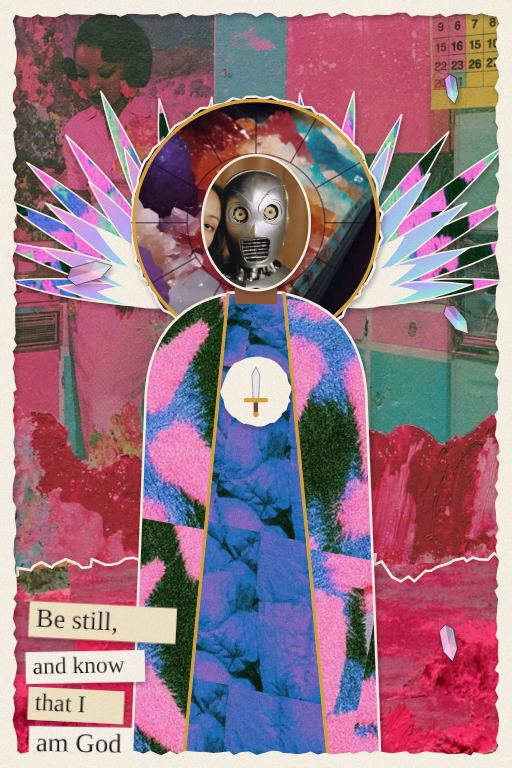
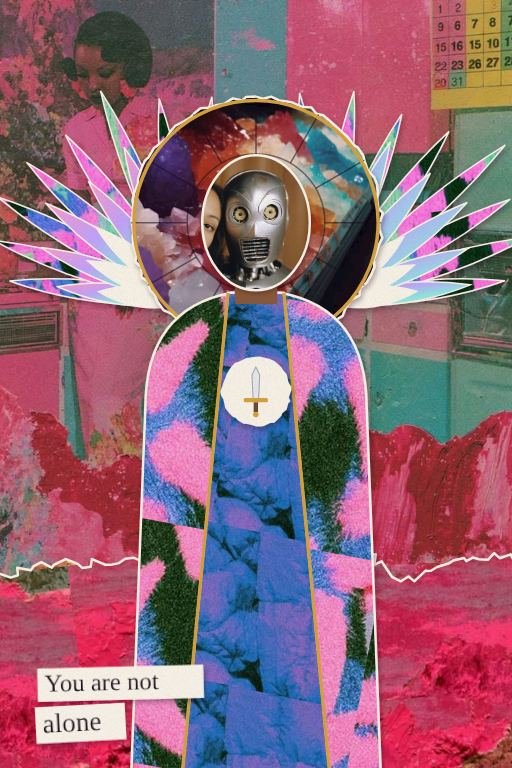
No floating crystals; every collage gets cut-out words (whole sentences, max 3 strips, always in frame)
Claude-Session: https://claude.ai/code/session_01ApSqnhGPoZyWtH2m5PK85X

diff --git a/server/art/procedural.js b/server/art/procedural.js
@@ -230,18 +230,18 @@ function wordStrips(words, x, y, r, maxW) {
   }
   return o;
 }
-export function wordsFrom(text = "", max = 6) {
-  // a complete short phrase: the shortest sentence, or the closing words of a long one
+export function wordsFrom(text = "") {
+  // A complete short phrase: the shortest whole sentence,
+  // packed into strips of up to ~16 characters. Returns [] if it needs more than 3 strips.
   const sents = text.replace(/[“”"]/g, "").split(/(?<=[.!?])\s+/).map((x) => x.trim().replace(/[.!?]+$/, "")).filter(Boolean);
   if (!sents.length) return [];
-  let ws = sents.sort((a, b) => a.split(" ").length - b.split(" ").length)[0].split(/\s+/);
-  if (ws.length > 10) {
-    const tail = ws.join(" ").split(",").pop().trim().split(/\s+/);
-    ws = tail.length >= 2 && tail.length <= 8 ? tail : ws.slice(-6);
+  const phrase = sents.sort((x, y) => x.length - y.length)[0]; // whole sentences only
+  const lines = [];
+  for (const w of phrase.split(/\s+/)) {
+    const last = lines[lines.length - 1];
+    if (last && (last + " " + w).length <= 16) lines[lines.length - 1] = last + " " + w; else lines.push(w);
   }
-  const out = [];
-  for (let i = 0; i < ws.length && out.length < max; ) { const n = ws[i].length > 6 ? 1 : 2; out.push(ws.slice(i, i + n).join(" ")); i += n; }
-  return out;
+  return lines.length <= 3 ? lines : [];
 }
 
 
@@ -567,14 +567,8 @@ function kitArtwork({ themes = [], seed, aspect = "portrait", words = [], saint 
   }
   L.push(...figure);
 
-  // 9. A few gems, then her found-word strips on top
-  for (let i = 0; i < 4; i++) {
-    // keep gems off the figure (head, halo, robe centre)
-    let gx = 60 + r() * (W - 120), gy = 80 + r() * (H - 160);
-    if (saint && Math.abs(gx - cx) < W * 0.3) gx = gx < cx ? cx - W * 0.3 - r() * W * 0.1 : cx + W * 0.3 + r() * W * 0.1;
-    L.push(crystal(gx, gy, 16 + r() * 18, i % 2 ? "url(#iri)" : "url(#iri2)", r, r() * 3));
-  }
-  if (words.length) L.push(wordStrips(words, W * (r() > 0.5 ? 0.58 : 0.05), H * 0.82, r, W * 0.4));
+  // 9. Her found-word strips on top
+  if (words.length) L.push(wordStrips(words, W * (r() > 0.5 ? 0.56 : 0.05), H - 70 - (words.length - 1) * 86, r, W * 0.42));
 
   // 10. A deckled paper mat and grain unify it as one hand-made piece
   if (r() < 0.6) { const m = 30; L.push(`<path fill-rule="evenodd" d="M-10,-10H${W + 10}V${H + 10}H-10Z ${tornRect(m, m, W - m * 2, H - m * 2, r, 10)}" fill="#FBF6EC" filter="url(#shadow)"/>`); }

diff --git a/server/art/artwork.js b/server/art/artwork.js
@@ -35,7 +35,8 @@ export async function createArtwork(exp, { aspect = "portrait", providerId } = {
   try {
     // Found-word strips: from the day's reflection or Scripture (never from what the person wrote).
     const d = exp.devotional, sources = [d.reflection, d.scripture?.[0]?.text, d.scripture?.[1]?.text].filter(Boolean);
-    const words = seed % 4 === 0 ? [] : wordsFrom(sources[seed % sources.length]);
+    const rotated = sources.map((_, k) => sources[(seed + k) % sources.length]);
+    const words = rotated.map(wordsFrom).find((w) => w.length) || wordsFrom("Be still, and know that I am God.");
     const out = await generateImage({ ...built, brief, themes: exp.devotional.themes, seed, aspect, words, saint, references: activeReferences() }, { providerId });
     const file = `${newId(9)}.${out.ext}`;
     fs.writeFileSync(path.join(ART_DIR, file), out.buffer);

diff --git a/public/local-api.js b/public/local-api.js
@@ -62,7 +62,8 @@ function makeArt(e) {
   const angelDay = (d.themes || []).some((t) => ["fear", "anxiety", "loneliness", "overwhelm"].includes(t));
   const saint = (angelDay && d.saints.find((x) => x.kind === "angel")) || d.saints[0];
   const sources = [d.reflection, d.scripture?.[0]?.text, d.scripture?.[1]?.text].filter(Boolean);
-  const words = seed % 4 === 0 ? [] : wordsFrom(sources[seed % sources.length]);
+  const rotated = sources.map((_, k) => sources[(seed + k) % sources.length]);
+    const words = rotated.map(wordsFrom).find((w) => w.length) || wordsFrom("Be still, and know that I am God.");
   e.artHistory = [...(e.artHistory || []), { seed, composition, aspect: "portrait", saintId: saint?.id, words, title: d.art_brief.title }];
   e.art = { status: "ready", current: e.artHistory.length - 1 };
 }
